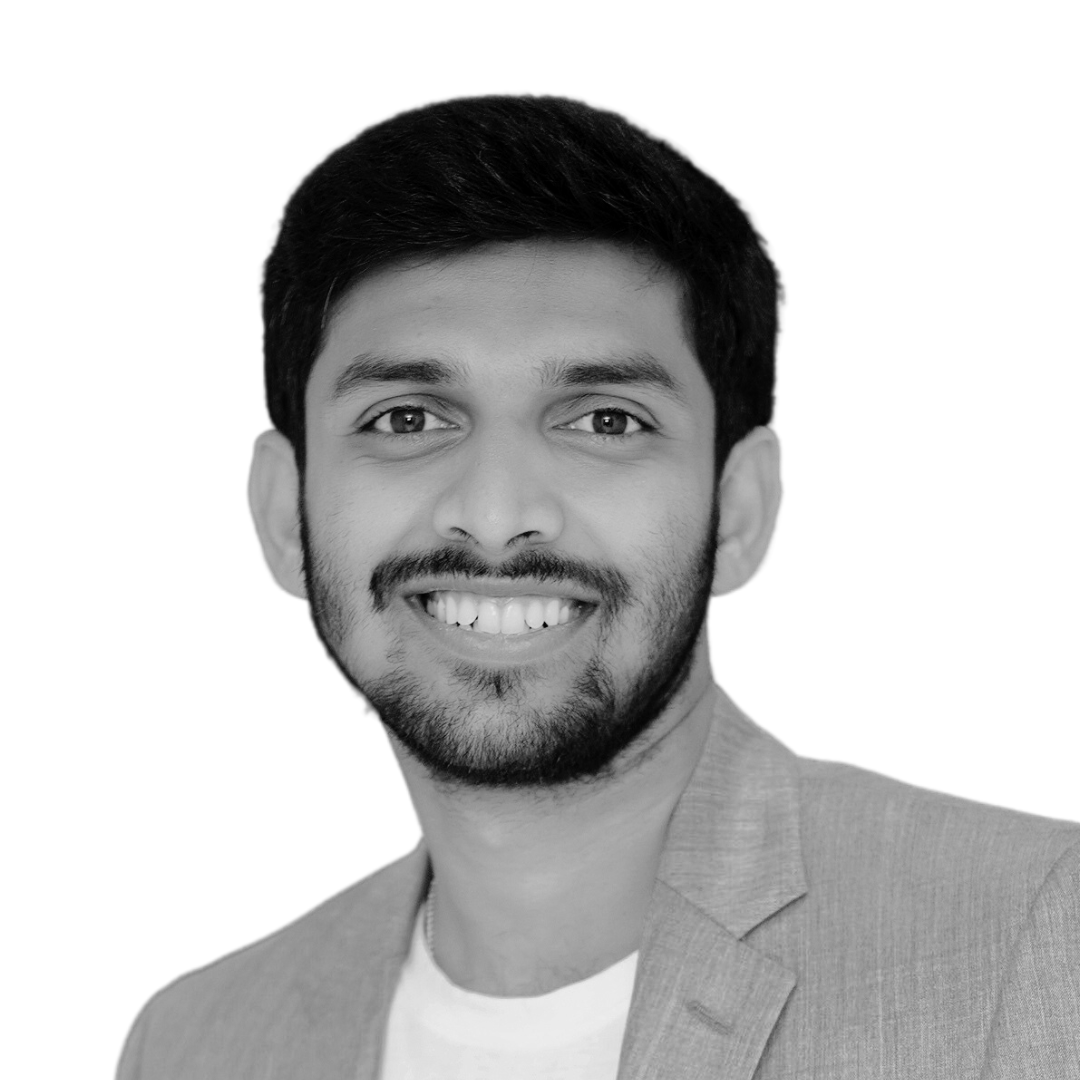
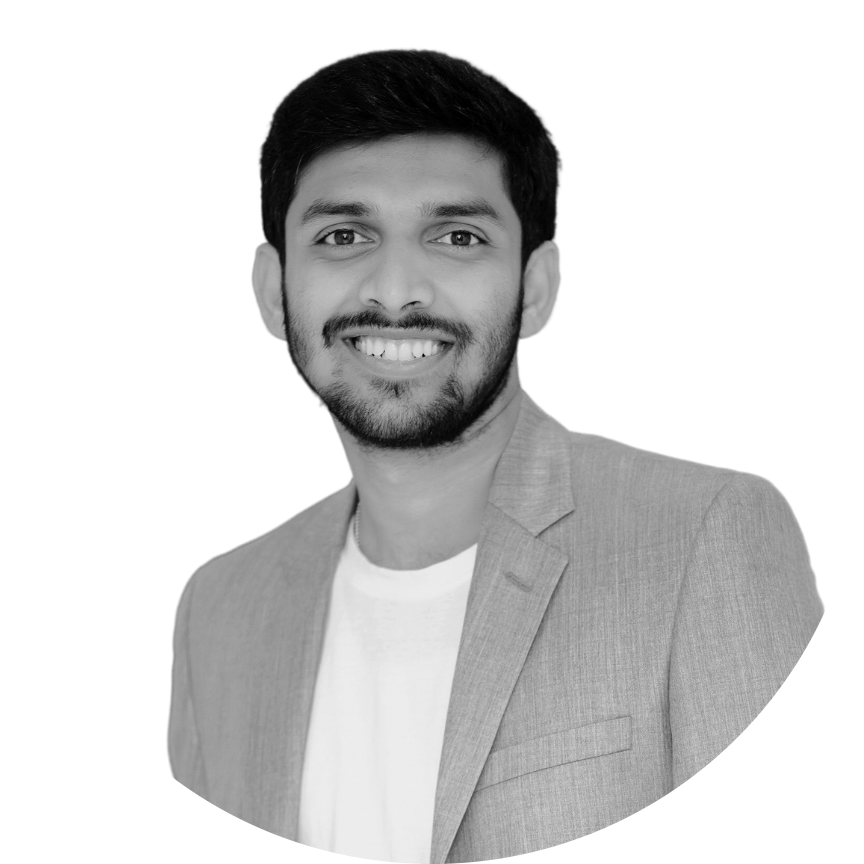
Round images added; style issues fixed

diff --git a/src/components/Section4.jsx b/src/components/Section4.jsx
@@ -45,10 +45,10 @@ export default function Section4() {
                 items: 1, // Number of items to display on screens equal to or larger than 768px
               },
               992: {
-                items: 3, // Number of items to display on screens equal to or larger than 992px
+                items: 5, // Number of items to display on screens equal to or larger than 992px
               },
               1200: {
-                items: 3, // Number of items to display on screens equal to or larger than 1200px
+                items: 5, // Number of items to display on screens equal to or larger than 1200px
               },
             }}
           >
@@ -218,7 +218,6 @@ export default function Section4() {
               </div>
             </div>
           </OwlCarousel>
-          ;
         </div>
       </div>
     </div>

diff --git a/src/App.css b/src/App.css
@@ -99,22 +99,24 @@ p.user-bio {
   font-weight: 400;
   letter-spacing: 0.242px;
 }
-/* .owl-item.active {
+.owl-item.active {
   transform: scale(0.8) !important;
-} */
+}
 .owl-item.active.center {
   transform: scale(1.1) !important;
-  /* min-width: 500px; */
+  width: 40vw !important;
+  overflow: hidden;
 }
 .owl-item.active:not(.center) {
-  /* width: 205px !important; */
+  width: 14vw !important;
+  height: 25vh !important;
+  overflow: hidden;
 }
-.owl-item.active:not(.center) .my-content {
+.owl-item:not(.center) .my-content, .owl-item.cloned:last-child {
   display: none;
 }
 .owl-item.active.center .my-content {
   display: block;
-  min-width: 260px;
 }
 
 .search {
